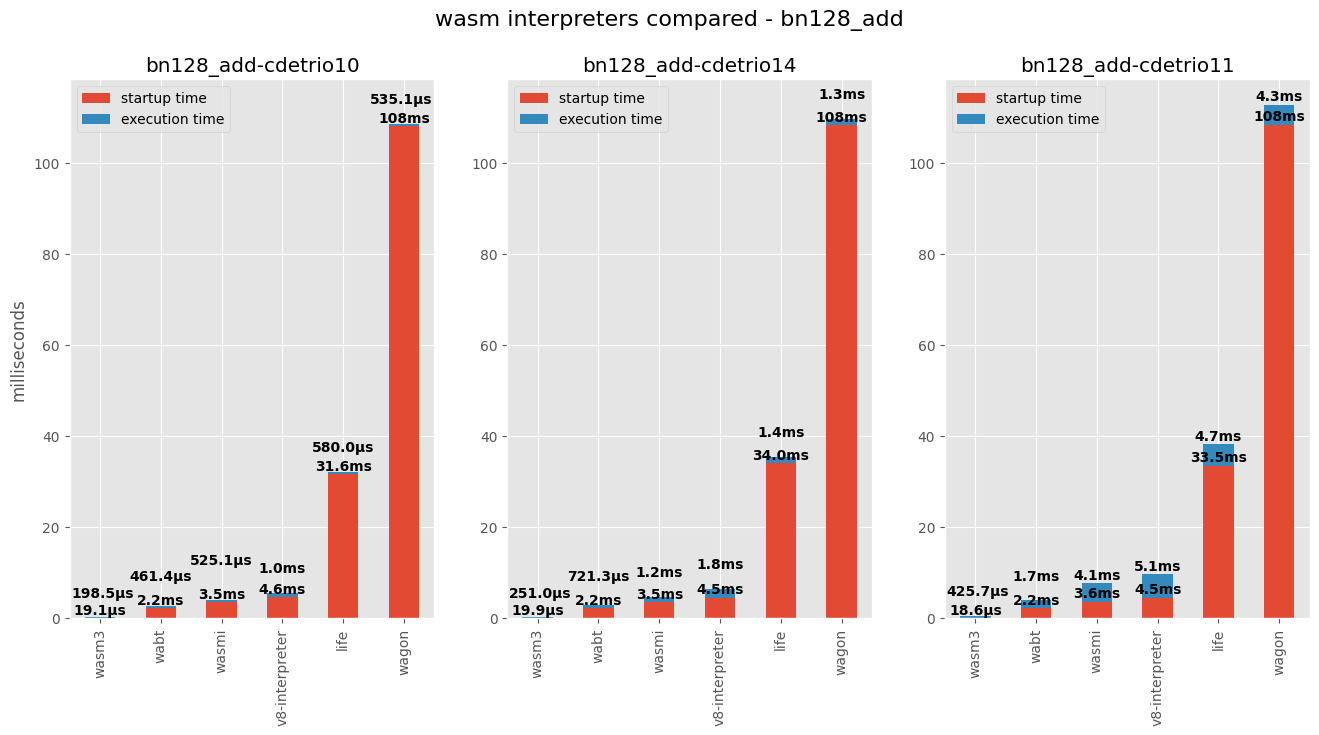
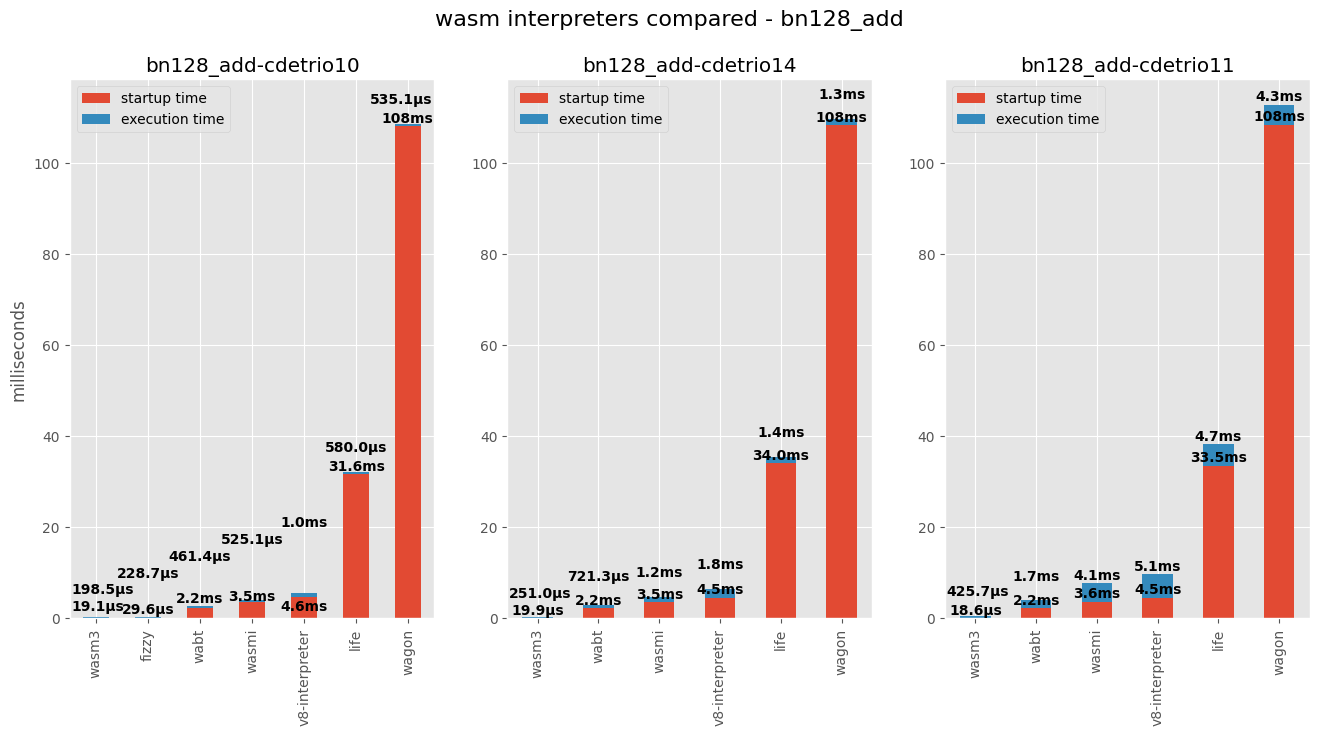
fix charts (add fizzy)

Changed region(s): [[0.0311, 0.1497, 0.3419, 0.9878]]

diff --git a/scripts/generate_report.py b/scripts/generate_report.py
@@ -28,7 +28,7 @@ SCOUT_RESULT_FILE = "scout_bignum_benchmarks.csv"
 IMG_OUTPUT_DIR = "../charts/"
 
 # To add a new engine, add the engine name used in the csv file to the list
-INTERPRETER_ENGINES = ['life', 'wagon', 'wasmi', 'wabt', 'v8-interpreter', 'wasm3', 'wamr']
+INTERPRETER_ENGINES = ['life', 'wagon', 'wasmi', 'wabt', 'v8-interpreter', 'wasm3', 'wamr', 'fizzy']
 COMPILER_ENGINES = ['lifePolymerase', 'wasmtime', 'wavm', 'v8-liftoff', 'v8-turbofan', 'asmble']
 
 wasm_vm_names = INTERPRETER_ENGINES + COMPILER_ENGINES
@@ -518,6 +518,10 @@ plotThreeTestsExecTime(df_interp,
                        bn128_mul_test_names,
                        title="wasm interpreter execution time - bn128_mul")
 
+plotThreeTestsExecTime(df_interp,
+                       bn128_pairing_test_names,
+                       title="wasm interpreter execution time - bn128_pairing")
+
 ####################
 # Compiler Results #
 ####################
@@ -556,7 +560,7 @@ def plotCompilerStackedOneTest(df_benchdata, test_name, native=False):
     adjust_text_labels(labelBarHeights(ax, lower_y_bound=False))
     ax.legend(labels=["execution time", "compile time"])
     print(f"plotCompilerStackedOneTest: {filename}.png")
-    plt.savefig(IMG_OUTPUT_DIR + filename + '.png', bbox_inches='tight')
+    plt.savefig(IMG_OUTPUT_DIR + 'wasm-compilers-' + filename + '.png', bbox_inches='tight')
 
 plotCompilerStackedOneTest(df_compiler, blake2b_test_names[2])
 plotCompilerStackedOneTest(df_compiler, "bls12-381-aggreg-128-pubkeys-verify-sig")
@@ -609,6 +613,12 @@ def add_engine_ratio_col(df_two_engines, interp_engine, compiler_engine):
 
 df_wabt_v8liftoff = add_engine_ratio_col(df_interp_and_compile, "wabt", "v8-liftoff")
 
+df_fizzy_v8liftoff = add_engine_ratio_col(df_interp_and_compile, "fizzy", "v8-liftoff")
+
+df_wasm3_v8liftoff = add_engine_ratio_col(df_interp_and_compile, "wasm3", "v8-liftoff")
+
+df_wasmi_wavm = add_engine_ratio_col(df_interp_and_compile, "wasmi", "wavm")
+
 def plotCompilerSpeedup(df_compiler_speedup, interp_name="interp", compiler_name="compiler"):
     filename = 'compiler-speedup-' + interp_name + '-' + compiler_name
     df_is = df_compiler_speedup.copy()
@@ -642,7 +652,11 @@ def plotCompilerSpeedup(df_compiler_speedup, interp_name="interp", compiler_name
     print(f"plotCompilerSpeedup: {filename}.png")
     plt.savefig(IMG_OUTPUT_DIR + filename + '.png', bbox_inches='tight')
 
+# import pdb; pdb.set_trace()
 plotCompilerSpeedup(df_wabt_v8liftoff, interp_name="wabt", compiler_name="v8-liftoff")
+plotCompilerSpeedup(df_fizzy_v8liftoff, interp_name="fizzy", compiler_name="v8-liftoff")
+plotCompilerSpeedup(df_wasm3_v8liftoff, interp_name="wasm3", compiler_name="v8-liftoff")
+plotCompilerSpeedup(df_wasmi_wavm, interp_name="wasmi", compiler_name="wavm")
 
 ########################################################
 # All precompiles compared (are interpreters feasible? #
